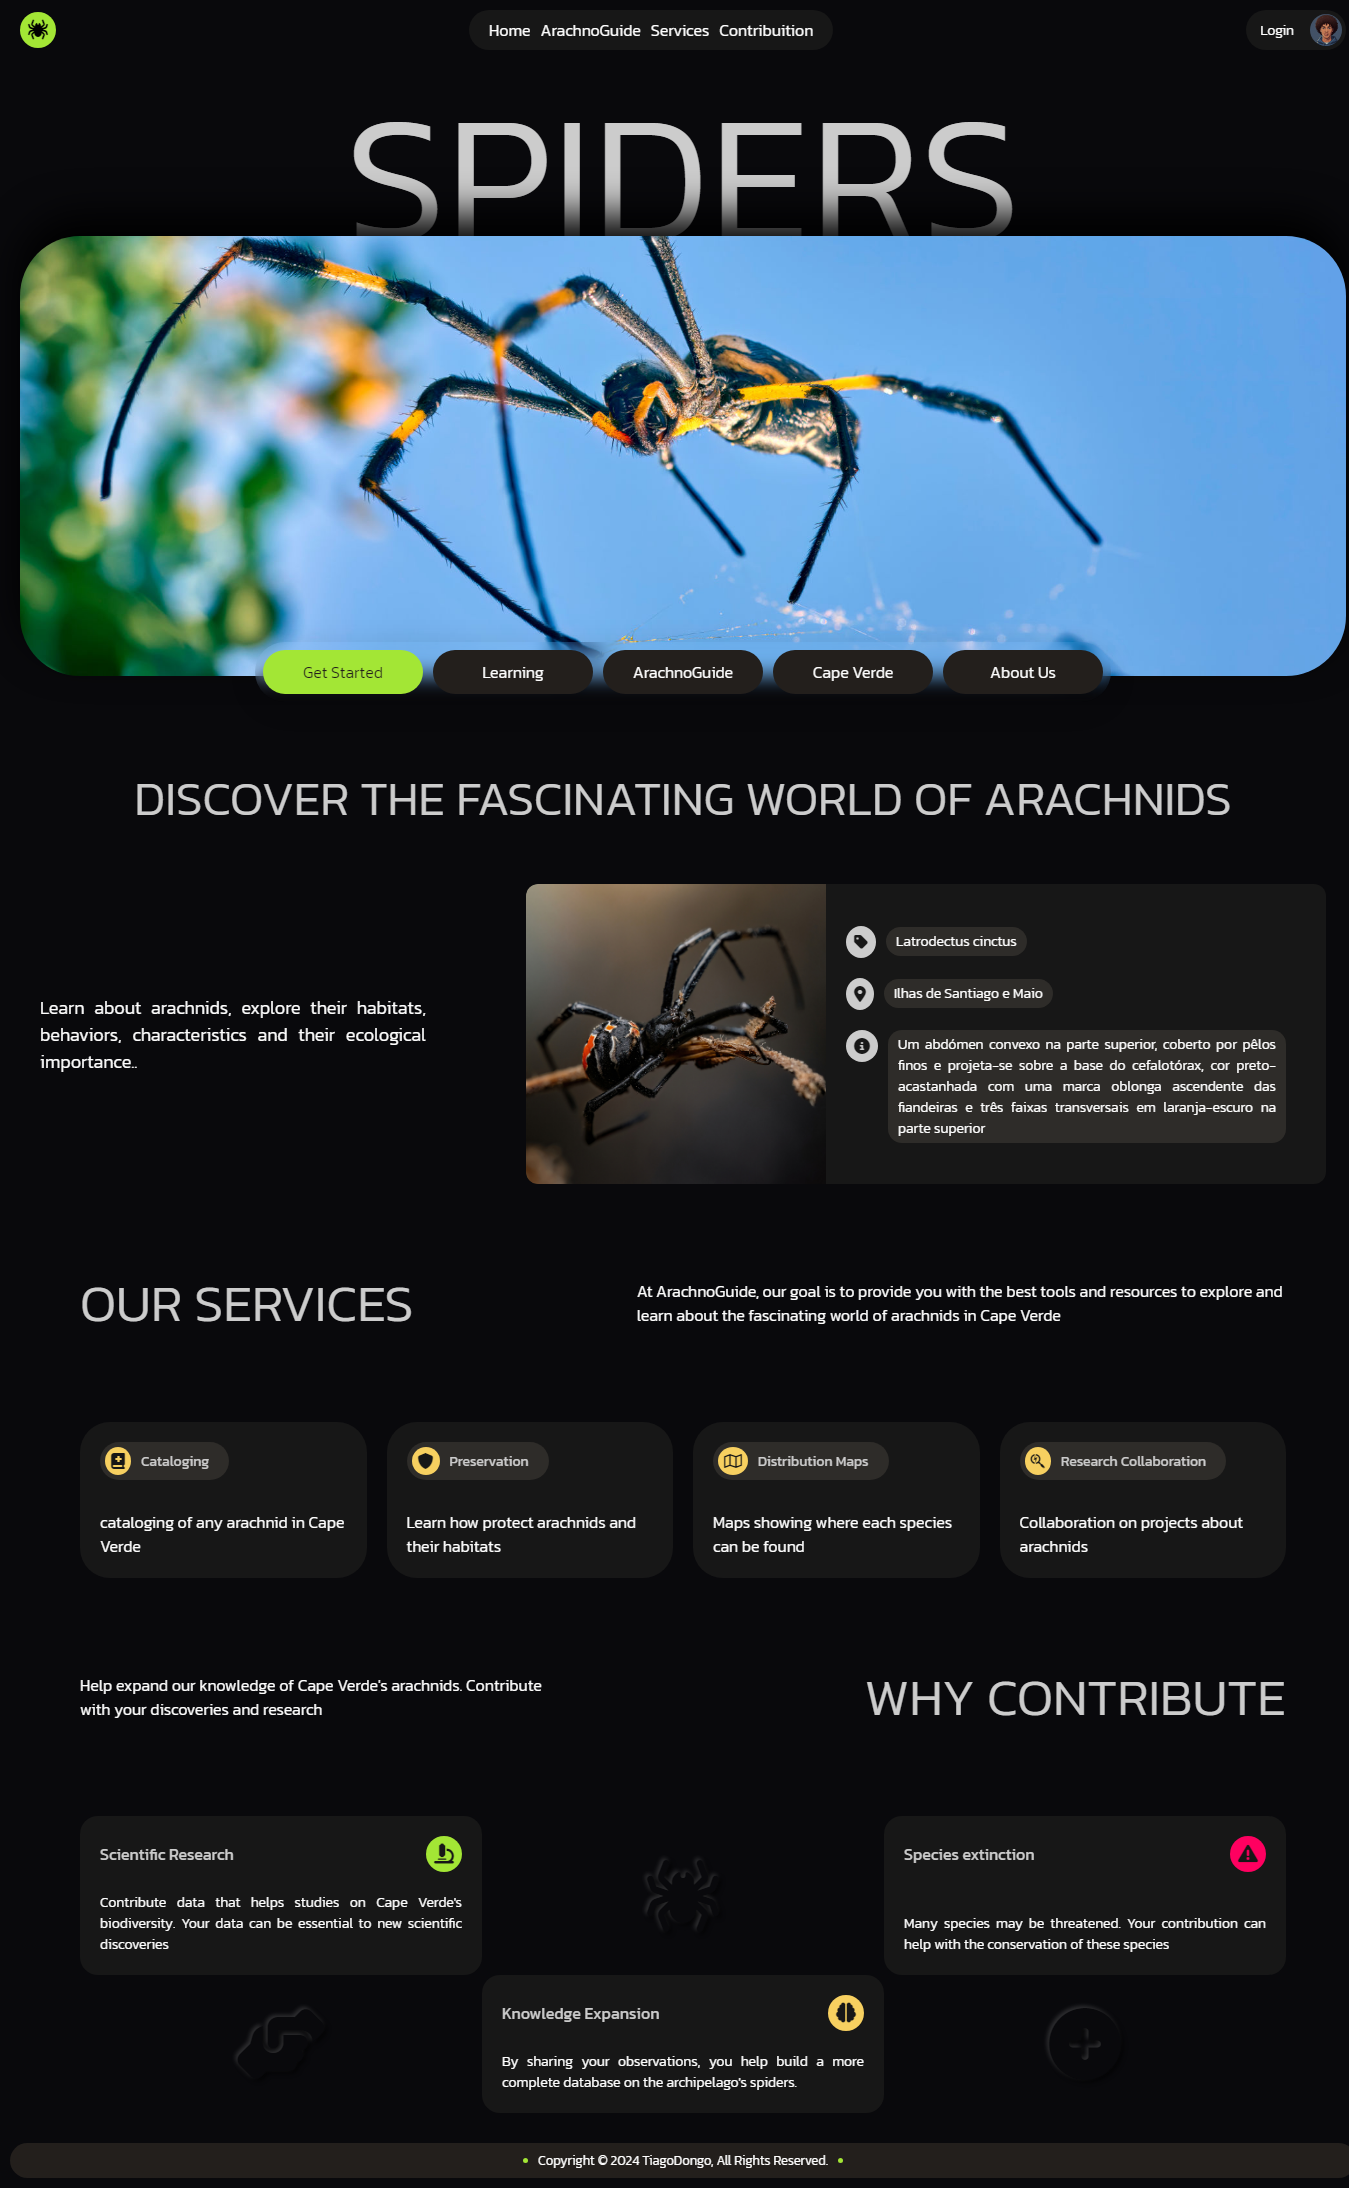
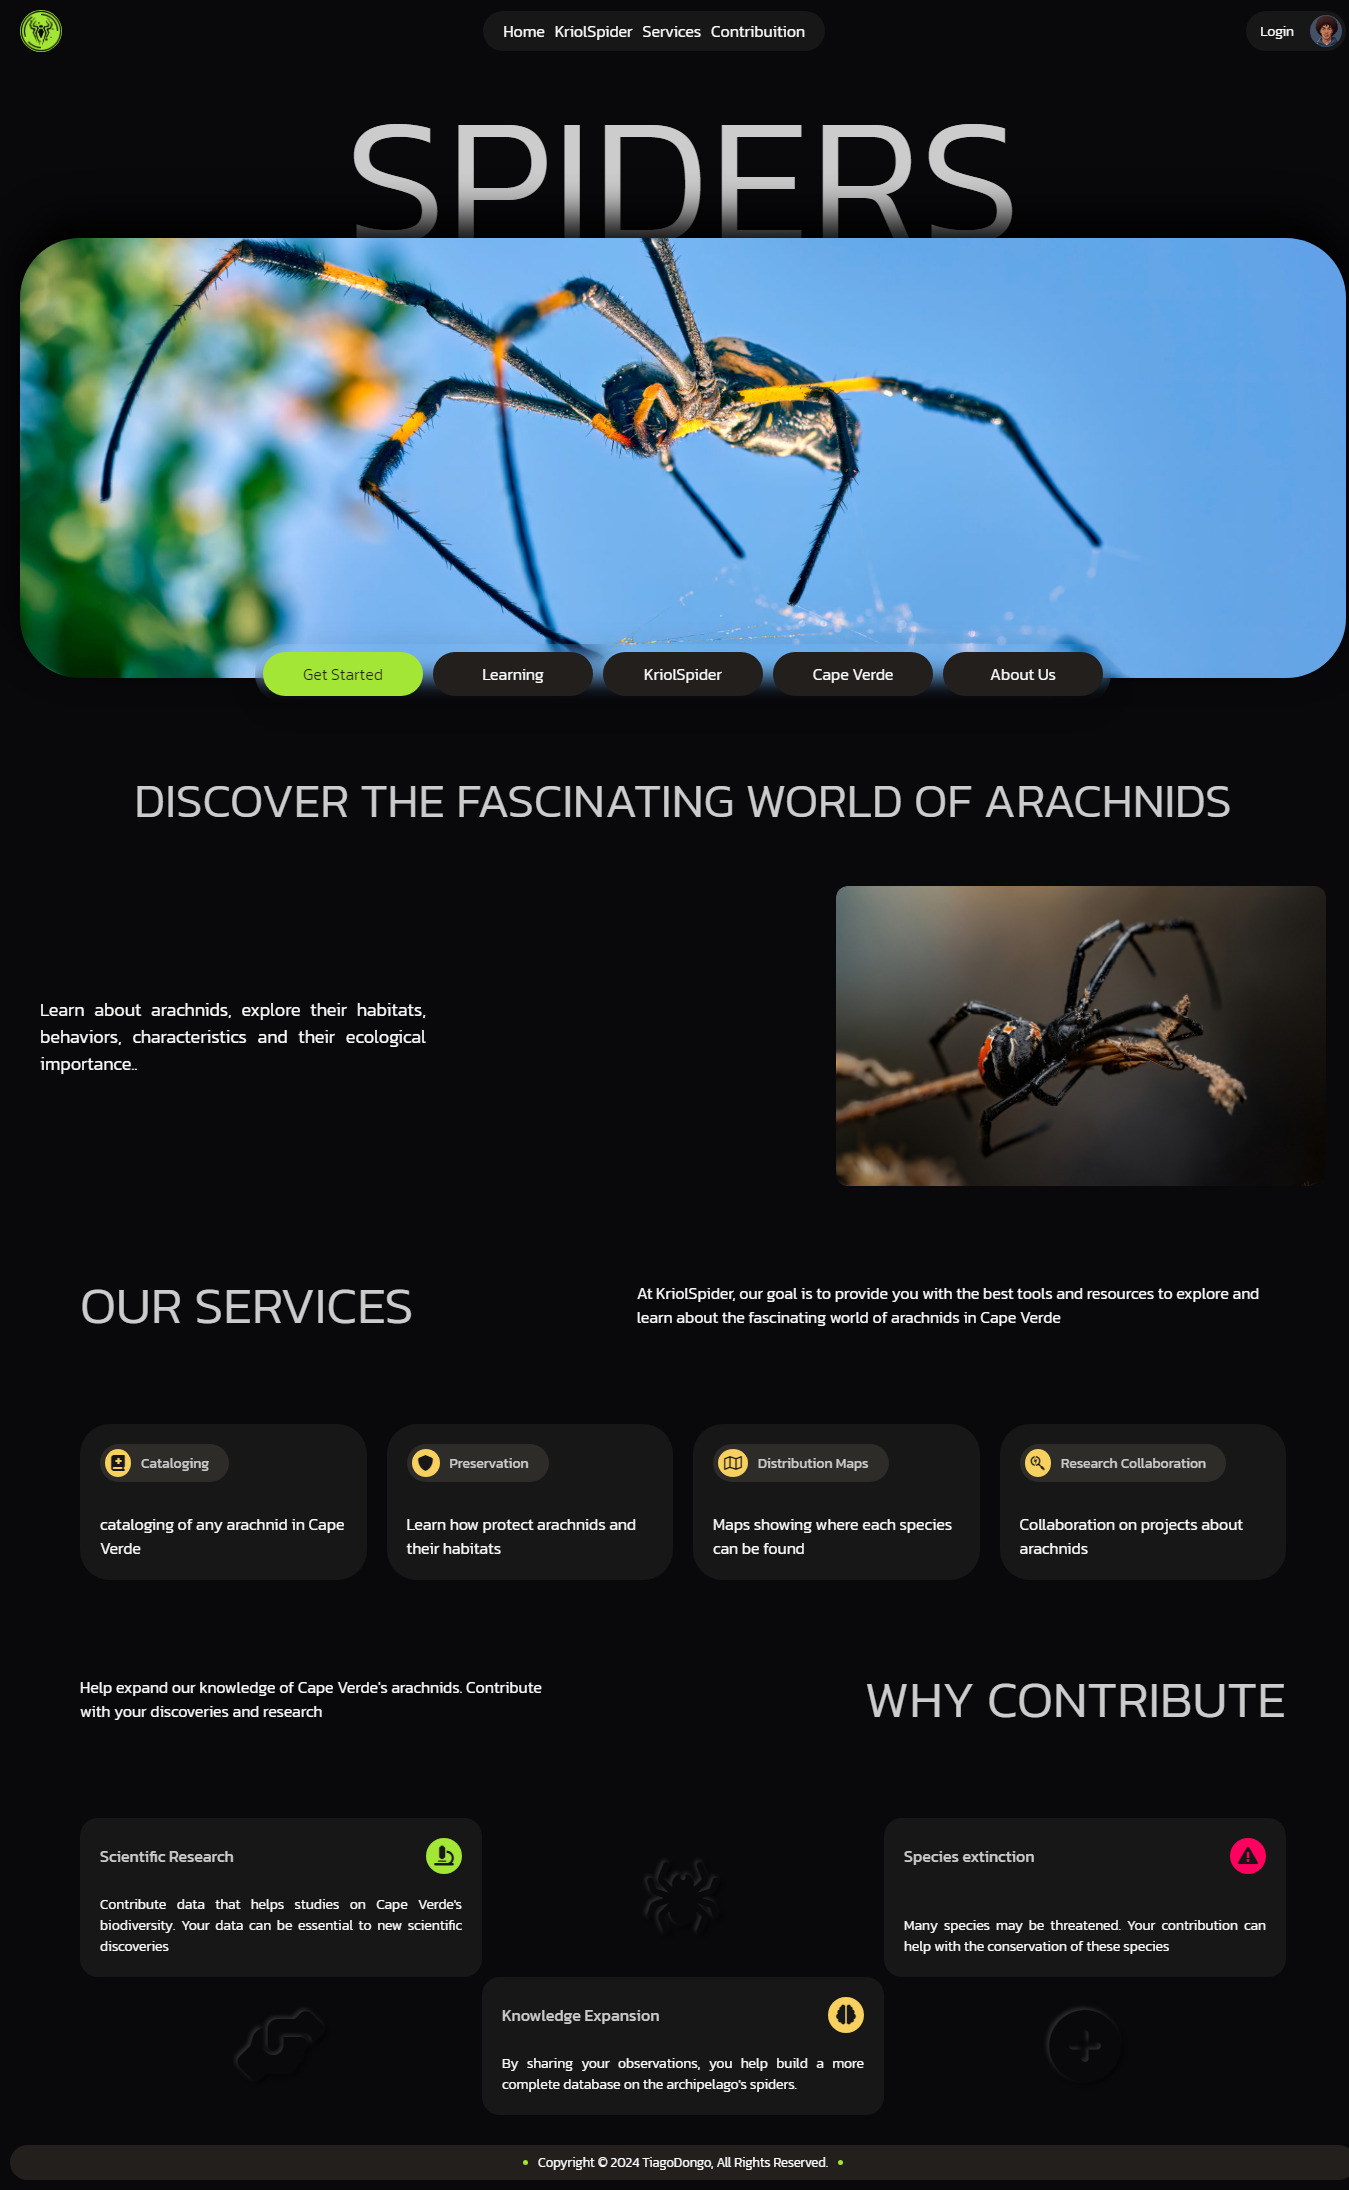
update README.md

diff --git a/README.md b/README.md
@@ -1,21 +1,16 @@
-# KriolSpider
+<div align="center">
+<img src="assets/KriolSpider-Logo.png" width="150px" >
+<h1>KriolSpider</h1>
+</div>
 
-![](https://img.shields.io/badge/HTML5-E34F26?style=for-the-badge&logo=html5&logoColor=white)
-![](https://img.shields.io/badge/CSS3-1572B6?style=for-the-badge&logo=css3&logoColor=white)
-![](https://img.shields.io/badge/JavaScript-323330?style=for-the-badge&logo=javascript&logoColor=F7DF1E)
-![](https://img.shields.io/badge/MIT-blue?style=for-the-badge&label=License&link=https%3A%2F%2Fgithub.com%2FTiagoDongo%2FArachnoGuide%2Fblob%2Fmain%2FLICENSE)
+KriolSpider is a landing page dedicated to showcasing the arachnid diversity of Cape Verde.
 
----
 
-This is a project dedicated to cataloging and providing information about arachnids found in Cape Verde.  
-Explore species, their habitats, behaviors, and ecological significance
-
-## Features
-
-- Detailed arachnid species catalog
-- Awareness and conservation initiatives
-- Research collaboration and contribution
+![html](https://img.shields.io/badge/HTML5-E34F26?style=for-the-badge&logo=html5&logoColor=white)
+![css](https://img.shields.io/badge/CSS3-1572B6?style=for-the-badge&logo=css3&logoColor=white)
+![javascript](https://img.shields.io/badge/JavaScript-323330?style=for-the-badge&logo=javascript&logoColor=F7DF1E)
+![license](https://img.shields.io/badge/MIT-blue?style=for-the-badge&label=License&link=https%3A%2F%2Fgithub.com%2FTiagoDongo%2FKriolSpider%2Fblob%2Fmain%2FLICENSE)
 
 ## Screenshots
 
-![](screenshot.png)
+![landing page](screenshot.png)
